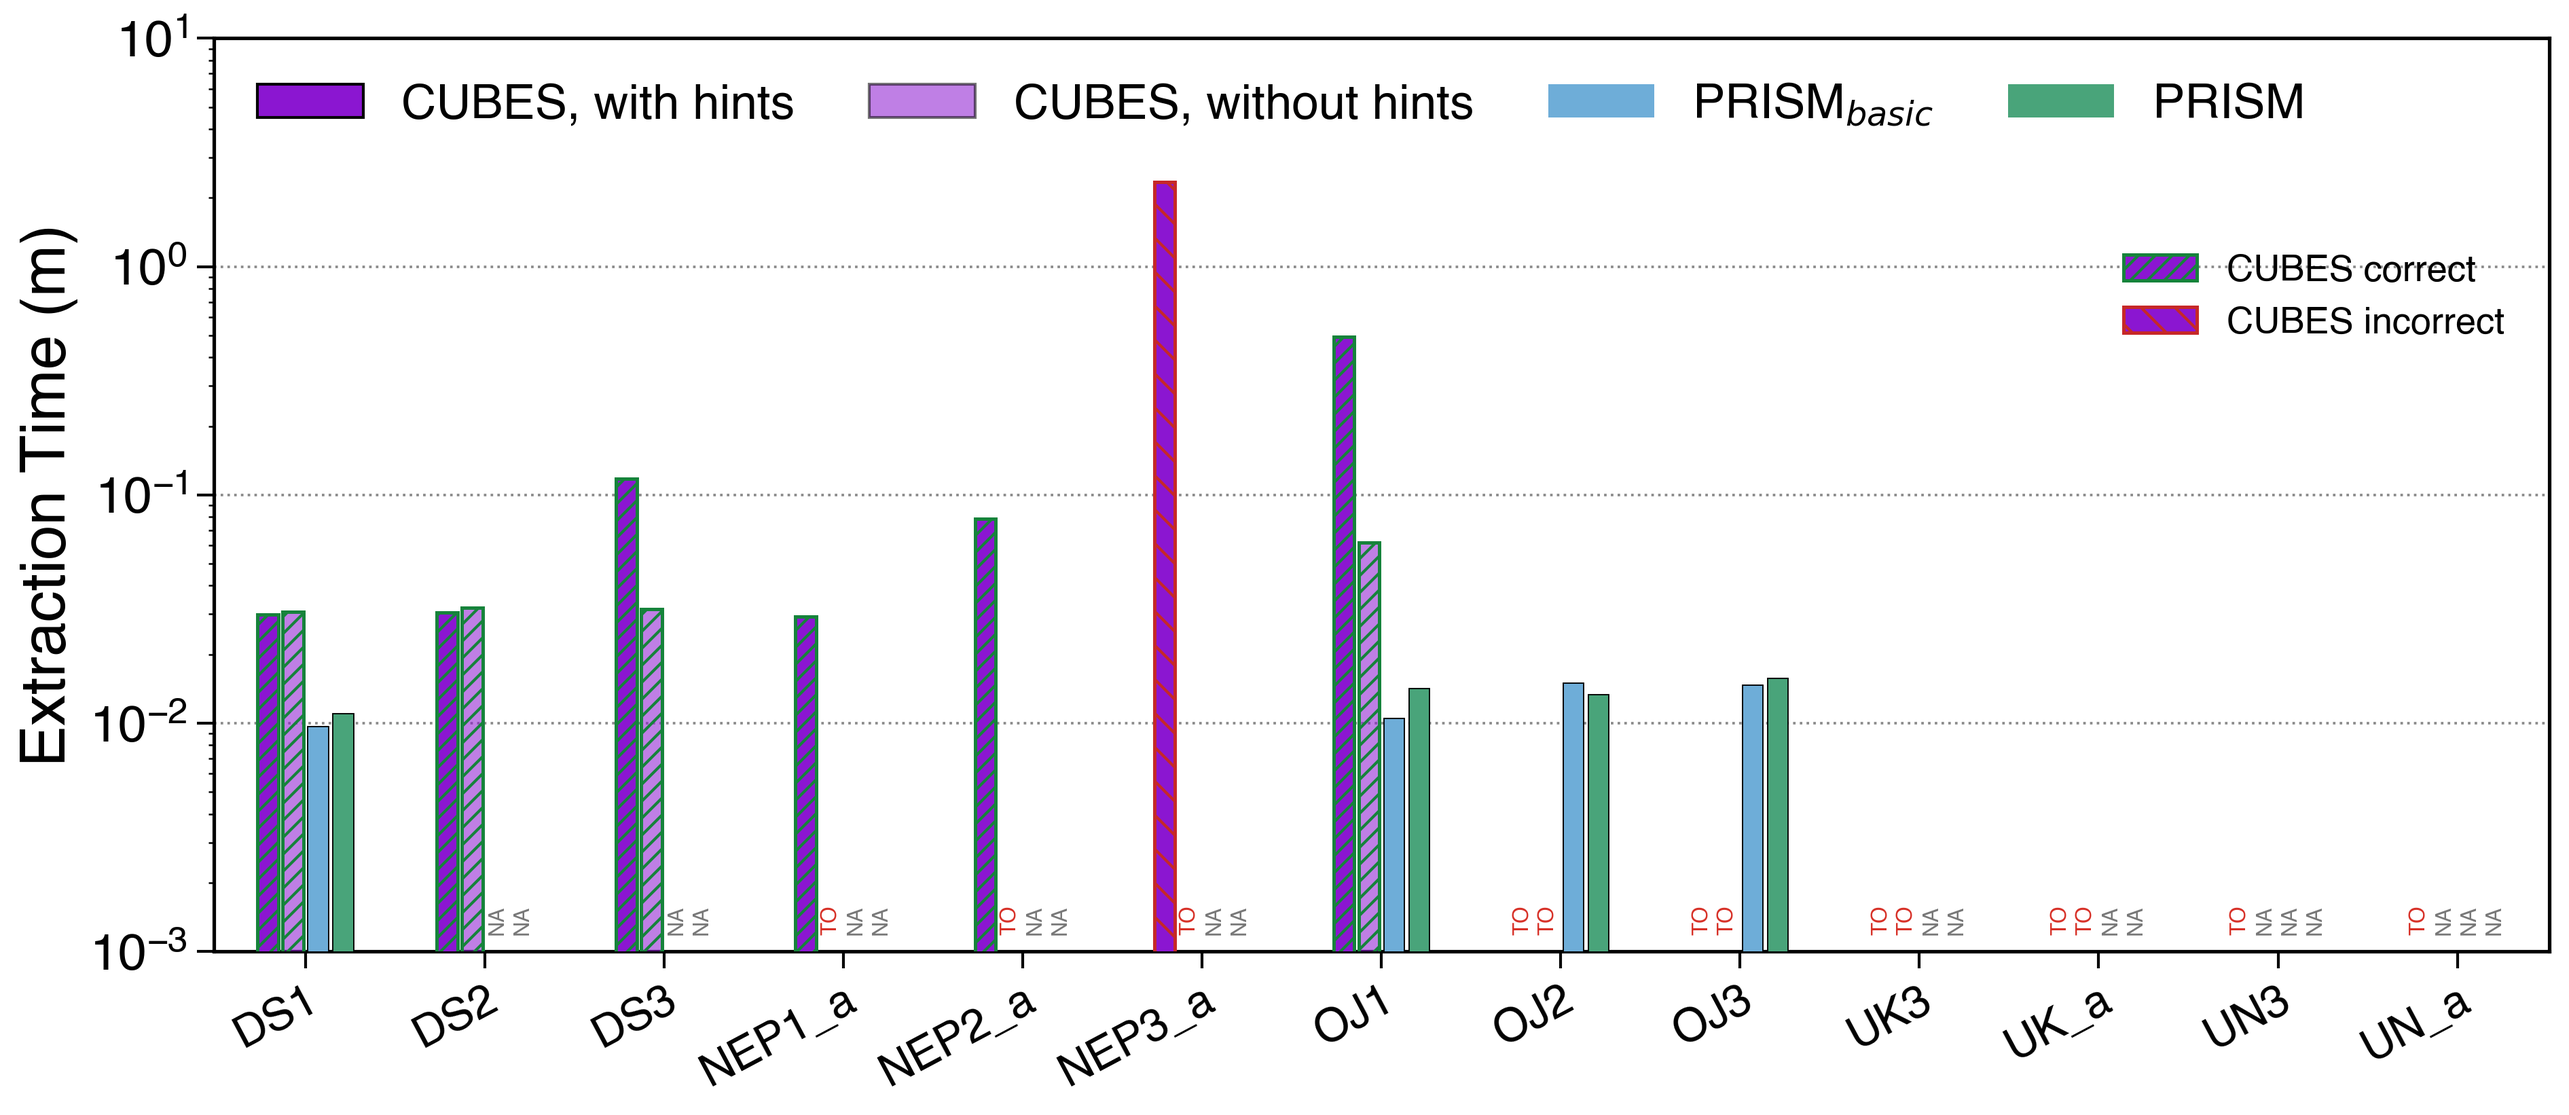
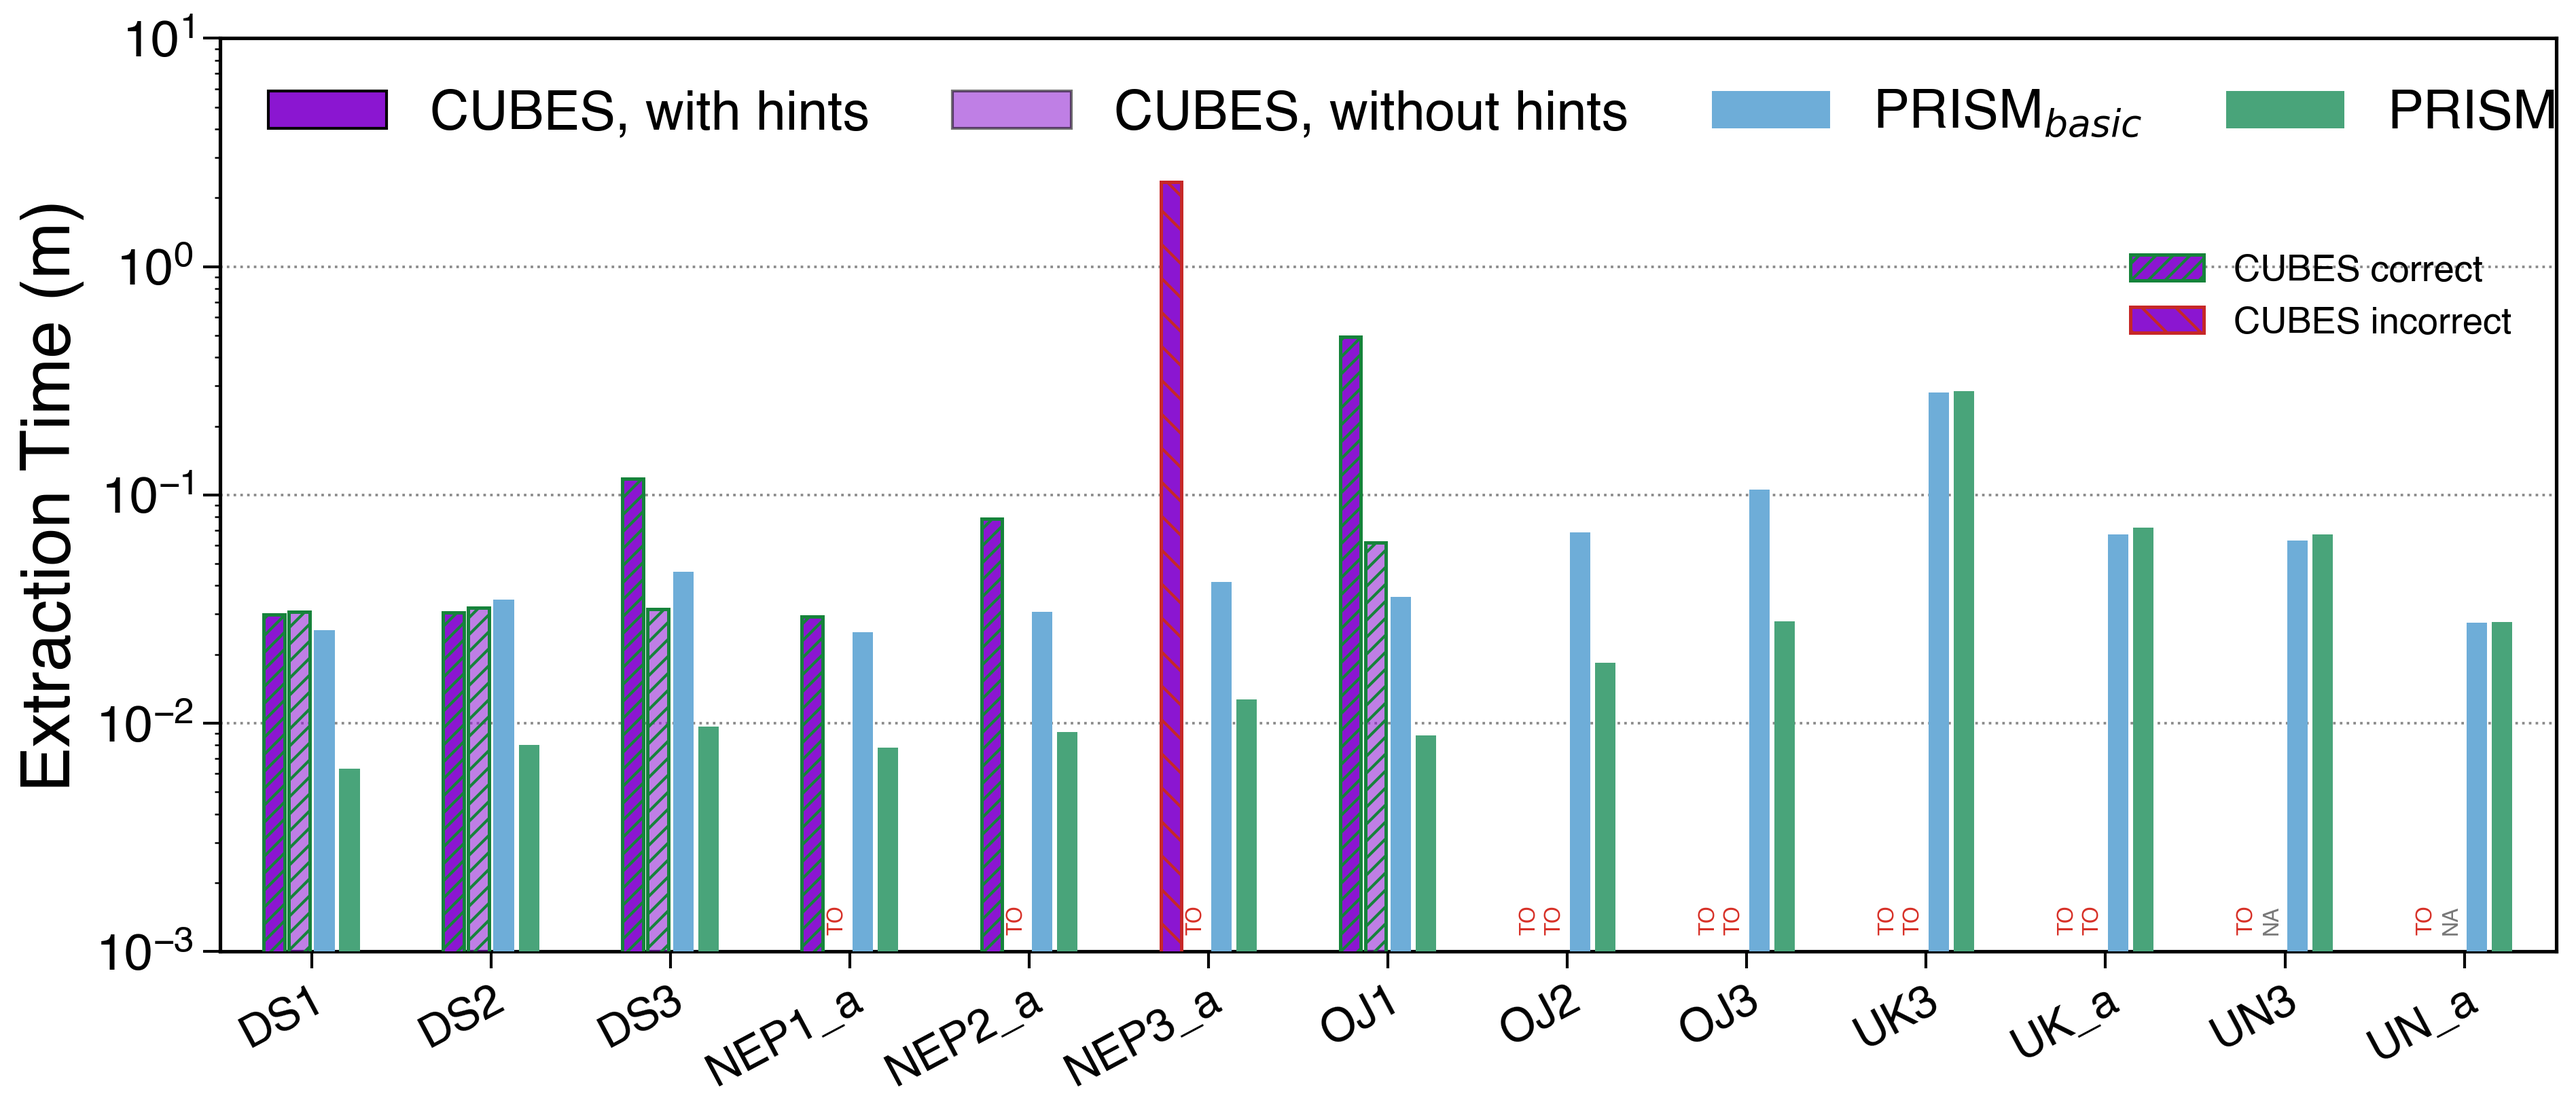
demo query fix in progress

diff --git a/mysite/unmasque/src/pipeline/fragments/DisjunctionPipeLine.py b/mysite/unmasque/src/pipeline/fragments/DisjunctionPipeLine.py
@@ -15,6 +15,8 @@ from ....src.util.constants import FILTER, INEQUALITY, DONE, RUNNING, START, EQU
     SAMPLING, RESTORE_DB, ERROR
 from ....src.util.utils import get_format, get_val_plus_delta
 from ....src.util.error_handling import UnmasqueError
+from ....src.util.error_codes import ERROR_008
+from ....src.pipeline.abstract.SchemaSanitizer import SchemaSanitizer
 
 
 def get_eq_filters(arithmetics):
@@ -31,6 +33,7 @@ class DisjunctionPipeLine(GenericPipeLine, ABC):
         self.db_restorer = None
         self.global_min_instance_dict = None
         self.key_lists = None
+        self.OR_CUTOFF = 1000
 
     def _mutation_pipeline(self, core_relations, query, time_profile, restore_details=None):
         self.update_state(RESTORE_DB + START)
@@ -181,6 +184,11 @@ class DisjunctionPipeLine(GenericPipeLine, ABC):
         if self.connectionHelper.config.detect_or:
             try:
                 time_profile = self.__run_extraction_loop(all_eq_predicates, core_relations, ids, query, time_profile)
+            except UnmasqueError as e:
+                self.__restore_db(core_relations)
+                self.update_state(ERROR)
+                self.logger.error("Error in disjunction loop. ", str(e))
+                raise
             except Exception as e:
                 self.update_state(ERROR)
                 self.logger.error("Error in disjunction loop. ", str(e))
@@ -189,9 +197,11 @@ class DisjunctionPipeLine(GenericPipeLine, ABC):
         return True, time_profile
 
     def __run_extraction_loop(self, all_eq_predicates, core_relations, ids, query, time_profile):
-        while True:
+        converged = False
+        for _ in range(self.OR_CUTOFF):
             or_eq_predicates = []
             for i in ids:
+                reference = all_eq_predicates[0][i]
                 in_candidates = [copy.deepcopy(em[i]) for em in all_eq_predicates]
                 self.logger.debug("Checking OR predicate of ", in_candidates)
                 if not len(in_candidates[-1]):
@@ -203,13 +213,87 @@ class DisjunctionPipeLine(GenericPipeLine, ABC):
                 check, time_profile = self._mutation_pipeline(core_relations, query, time_profile, restore_details)
                 if not check or not self.__get_predicates_in_action():
                     or_eq_predicates.append(tuple())
+                    continue
+                new_predicate = self.__find_matching_predicate(self.__get_predicates_in_action(), reference)
+                if not new_predicate or not self.__is_new_disjunct(new_predicate, in_candidates):
+                    or_eq_predicates.append(tuple())
                 else:
-                    or_eq_predicates.append(self.__get_predicates_in_action()[i])
+                    or_eq_predicates.append(new_predicate)
                 self.logger.debug("new or predicates...", all_eq_predicates, or_eq_predicates)
             if all(element == tuple() for element in or_eq_predicates):
+                converged = True
                 break
             all_eq_predicates.append(or_eq_predicates)
+        if not converged:
+            raise UnmasqueError(ERROR_008, "DisjunctionPipeLine",
+                                f"Could not determine all OR branches within {self.OR_CUTOFF} iterations.")
         return time_profile
+
+    @staticmethod
+    def __find_matching_predicate(predicates, reference):
+        if not reference:
+            return tuple()
+        ref_key = (reference[0], reference[1])
+        candidates = [pred for pred in predicates if (pred[0], pred[1]) == ref_key]
+        if not candidates:
+            return tuple()
+        for pred in candidates:
+            if len(pred) > 4 and len(reference) > 4 \
+                    and pred[2] == reference[2] and pred[3] == reference[3] and pred[4] == reference[4]:
+                return pred
+        for pred in candidates:
+            if len(pred) > 2 and pred[2] == reference[2]:
+                return pred
+        return candidates[0]
+
+    @staticmethod
+    def __get_interval(predicate):
+        if not predicate or len(predicate) < 5:
+            return None
+        if str(predicate[2]).lower() == 'like':
+            return None
+        return predicate[3], predicate[4]
+
+    @staticmethod
+    def __intervals_overlap(first, second):
+        first_lb, first_ub = first
+        second_lb, second_ub = second
+        try:
+            if first_ub is not None and second_lb is not None and first_ub < second_lb:
+                return False
+            if second_ub is not None and first_lb is not None and second_ub < first_lb:
+                return False
+        except TypeError:
+            return True
+        return True
+
+    def __is_new_disjunct(self, new_predicate, in_candidates):
+        new_interval = self.__get_interval(new_predicate)
+        for candidate in in_candidates:
+            if not candidate or (candidate[0], candidate[1]) != (new_predicate[0], new_predicate[1]):
+                continue
+            candidate_interval = self.__get_interval(candidate)
+            if new_interval is None or candidate_interval is None:
+                if new_predicate == candidate:
+                    return False
+                continue
+            if self.__intervals_overlap(new_interval, candidate_interval):
+                return False
+        return True
+
+    def __restore_db(self, core_relations):
+        relations = getattr(self, 'all_relations', None) or core_relations
+        try:
+            self.connectionHelper.rollback_transaction()
+        except Exception:
+            pass
+        try:
+            sanitizer = SchemaSanitizer(self.connectionHelper, self.all_sizes)
+            sanitizer.set_all_relations(list(relations))
+            sanitizer.sanitize()
+            self.logger.info("Database restored after disjunction extraction error.")
+        except Exception as e:
+            self.logger.error("Could not restore the database after disjunction extraction error. ", str(e))
 
     def __get_OR_db_restoration_details(self, core_relations, in_candidates):
         restore_details = []

diff --git a/mysite/cubes/results/plots/compare_plot.py b/mysite/cubes/results/plots/compare_plot.py
@@ -1,4 +1,7 @@
+import csv
 import math
+import os
+
 import numpy as np
 import matplotlib.pyplot as plt
 from matplotlib.patches import Patch
@@ -8,11 +11,11 @@ from matplotlib.lines import Line2D
 plt.rcParams.update({
     "font.family": "sans-serif",
     "font.sans-serif": ["Helvetica", "Liberation Sans", "Arial"],
-    "font.size": 16,
-    "axes.labelsize": 22,
+    "font.size": 20,
+    "axes.labelsize": 24,
     "xtick.labelsize": 16,
     "ytick.labelsize": 18,
-    "legend.fontsize": 17,
+    "legend.fontsize": 19,
     "axes.linewidth": 1.25,
     "xtick.major.width": 1.0,
     "ytick.major.width": 1.0,
@@ -23,7 +26,6 @@ plt.rcParams.update({
 })
 
 # All timing values are elapsed wall-clock minutes from query_results.md.
-# PRISM entries are entered in seconds and converted to minutes; None is plotted as NA.
 QUERY_ORDER = [
     "DS1", "DS2", "DS3",
     "NEP1_a", "NEP2_a", "NEP3_a",
@@ -31,12 +33,29 @@ QUERY_ORDER = [
     "UK3", "UK_a", "UN3", "UN_a",
 ]
 
-PRISM_DATA = {
-    "DS1": {"prism_basic": 0.58/60.0, "prism": 0.66/60.0},
-    "OJ1": {"prism_basic": 0.63 / 60.0, "prism": 0.85 / 60.0},
-    "OJ2": {"prism_basic": 0.90 / 60.0, "prism": 0.80 / 60.0},
-    "OJ3": {"prism_basic": 0.88 / 60.0, "prism": 0.94 / 60.0},
-}
+# PRISM timings come from the UNMASQUE CSVs (seconds, per-component).
+#   unmasque_all_flags.csv      -> PRISM
+#   unmasque_specific_flags.csv -> PRISM_basic
+# Total = sum of component times, EXCLUDING limit_s and result_comparator_s
+# (and the precomputed total_s column). Converted to minutes.
+EXCLUDED_COLS = {"qid", "limit_s", "result_comparator_s", "total_s"}
+HERE = os.path.dirname(os.path.abspath(__file__))
+
+
+def load_unmasque_totals(path):
+    totals = {}
+    with open(path, newline="") as f:
+        for row in csv.DictReader(f):
+            secs = sum(float(v) for k, v in row.items()
+                       if k not in EXCLUDED_COLS and v not in (None, ""))
+            totals[row["qid"]] = secs / 60.0
+    return totals
+
+
+_basic = load_unmasque_totals(os.path.join(HERE, "unmasque_specific_flags.csv"))
+_full = load_unmasque_totals(os.path.join(HERE, "unmasque_all_flags.csv"))
+PRISM_DATA = {q: {"prism_basic": _basic.get(q), "prism": _full.get(q)}
+              for q in QUERY_ORDER}
 
 # A completed candidate has a numeric time and correctness True/False/None.
 # A stopped or failed run has time=None and status="TO".
@@ -193,7 +212,7 @@ def draw_prism(ax, x, width, value, color):
     if value is None or (isinstance(value, float) and math.isnan(value)):
         draw_missing(ax, x, "NA", "#777777")
         return
-    ax.bar([x], [value], width, color=color, edgecolor="black", linewidth=0.45, zorder=3)
+    ax.bar([x], [value], width, color=color, edgecolor="none", linewidth=0.45, zorder=3)
 
 
 def plot_comparison(output_stem="prism_vs_cubes_all_qids"):
@@ -248,12 +267,10 @@ def plot_comparison(output_stem="prism_vs_cubes_all_qids"):
               label="CUBES incorrect"),
     ], loc="upper right", bbox_to_anchor=(0.995, 0.80), frameon=False, fontsize=13)
 
-
     # Gnuplot-like clean frame.
     for spine in ax.spines.values():
         spine.set_color("black")
         spine.set_linewidth(1.25)
-
 
     fig.subplots_adjust(left=0.075, right=0.992, top=0.985, bottom=0.155)
     fig.savefig(output_stem + ".png", dpi=300, bbox_inches="tight")

diff --git a/mysite/unmasque/test/DisjunctionPipeLineTest.py b/mysite/unmasque/test/DisjunctionPipeLineTest.py
@@ -1,0 +1,75 @@
+from types import SimpleNamespace
+
+from mysite.unmasque.src.core.dataclass.genPipeline_context import merge_overlapping_ranges
+from mysite.unmasque.src.pipeline.fragments.DisjunctionPipeLine import DisjunctionPipeLine
+
+
+class _NullLogger:
+    def debug(self, *args, **kwargs):
+        pass
+
+    def info(self, *args, **kwargs):
+        pass
+
+    def error(self, *args, **kwargs):
+        pass
+
+
+class _FilterExtractor:
+    def get_datatype(self, tab_attrib):
+        return 'numeric' if tab_attrib[1] == 'c_acctbal' else 'str'
+
+
+class _DisjunctionPipeline(DisjunctionPipeLine):
+    def __init__(self, returned_predicates, detect_or=True):
+        self.OR_CUTOFF = 1000
+        self.logger = _NullLogger()
+        self.connectionHelper = SimpleNamespace(config=SimpleNamespace(detect_or=detect_or))
+        self.filter_extractor = _FilterExtractor()
+        self.state = []
+        self.all_sizes = {}
+        self.returned_predicates = returned_predicates
+        self.mutation_calls = 0
+
+    def _mutation_pipeline(self, core_relations, query, time_profile, restore_details=None):
+        self.mutation_calls += 1
+        return True, time_profile
+
+    def _DisjunctionPipeLine__get_predicates_in_action(self):
+        return self.returned_predicates
+
+    def process(self, query):
+        pass
+
+    def doJob(self, query, qe=None):
+        pass
+
+    def verify_correctness(self, query, result):
+        pass
+
+    def extract(self, query):
+        pass
+
+
+def test_non_disjunctive_range_terminates_without_new_predicate():
+    initial = ('customer', 'c_acctbal', 'range', 9000, 9559.94)
+    pipeline = _DisjunctionPipeline([('customer', 'c_acctbal', 'range', 9000, 9571.61)])
+    check, _ = pipeline._extract_disjunction([initial], ['customer'], 'query', None)
+    assert check
+    assert pipeline.or_predicates == [(initial,)]
+    assert pipeline.mutation_calls == 1
+
+
+def test_disjoint_or_values_are_kept():
+    initial = ('lineitem', 'l_shipmode', 'equal', 'AIR', 'AIR')
+    alternative = ('lineitem', 'l_shipmode', 'equal', 'TRUCK', 'TRUCK')
+    pipeline = _DisjunctionPipeline([alternative])
+    check, _ = pipeline._extract_disjunction([initial], ['lineitem'], 'query', None)
+    assert check
+    assert pipeline.or_predicates == [(initial, alternative)]
+    assert pipeline.mutation_calls == 2
+
+
+def test_merge_overlapping_ranges():
+    assert merge_overlapping_ranges([(1, 5), (4, 8), (7, 10)]) == [(1, 10)]
+    assert merge_overlapping_ranges([(1, 5), (7, 10)]) == [(1, 5), (7, 10)]

diff --git a/mysite/unmasque/src/core/dataclass/genPipeline_context.py b/mysite/unmasque/src/core/dataclass/genPipeline_context.py
@@ -69,6 +69,28 @@ def sort_merge(range_values, single_values, values):
         r_counter += 1
 
 
+def merge_overlapping_ranges(range_values):
+    if not range_values:
+        return []
+    sorted_ranges = sorted(range_values, key=lambda item: item[0])
+    merged = [tuple(sorted_ranges[0])]
+    for lb, ub in sorted_ranges[1:]:
+        last_lb, last_ub = merged[-1]
+        if lb <= last_ub:
+            merged[-1] = (last_lb, max(last_ub, ub))
+        else:
+            merged.append((lb, ub))
+    return merged
+
+
+def remove_values_covered_by_ranges(single_values, range_values):
+    output = []
+    for value in single_values:
+        if not any(lb <= value <= ub for lb, ub in range_values):
+            output.append(value)
+    return output
+
+
 def update_dict(B_dict, key, val, is_ub):
     if not isinstance(key, tuple):
         return
@@ -308,6 +330,9 @@ class GenPipelineContext:
                 single_values.append(val)
             else:
                 range_values.append(val)
+        single_values = sorted(set(single_values))
+        range_values = merge_overlapping_ranges(range_values)
+        single_values = remove_values_covered_by_ranges(single_values, range_values)
         sort_merge(range_values, single_values, values)
         in_pred = [tab, attrib, 'IN', values, values] if len(values) > 1 else [tab, attrib, '=', values, values]
         frozen_values = FrozenList(values)

diff --git a/mysite/unmasque/src/pipeline/fragments/NepPipeLine.py b/mysite/unmasque/src/pipeline/fragments/NepPipeLine.py
@@ -39,6 +39,7 @@ class NepPipeLine(GenericPipeLine, ABC):
         nep_extractor = NEP(self.connectionHelper, genCtx)
 
         for i in range(self.NEP_CUTOFF):
+            previous_eq = eq
             self.update_state(NEP_ + RESULT_COMPARE + START)
             self.update_state(NEP_ + RESULT_COMPARE + RUNNING)
             matched = nep_minimizer.match(query, eq)
@@ -73,6 +74,12 @@ class NepPipeLine(GenericPipeLine, ABC):
                     eq = self.q_generator.updateExtractedQueryWithNEPVal(query, nep_filters)
                 self.update_state(FILTER + DONE)
                 self.time_profile.update_for_nep(nep_extractor.local_elapsed_time, nep_extractor.app_calls)
+
+            if eq == previous_eq:
+                self.logger.info("NEP extraction made no progress; stopping.")
+                break
+        else:
+            self.logger.info(f"NEP extraction reached cutoff {self.NEP_CUTOFF}.")
 
         eq = self.q_generator.rewrite_for_NEP()
         self.logger.debug("returning..", eq)

diff --git a/mysite/unmasque/src/util/error_codes.py b/mysite/unmasque/src/util/error_codes.py
@@ -6,3 +6,4 @@ ERROR_004 = {'code': "004", 'msg': "Dummy value not found."}
 ERROR_005 = {'code': "005", 'msg': "Unsupported datatype"}
 ERROR_006 = {'code': "006", 'msg': "Relation not listed in pk-fk file"}
 ERROR_007 = {'code': "007", 'msg': "Out of Scope Problem"}
+ERROR_008 = {'code': "008", 'msg': "Disjunction extraction did not converge"}
